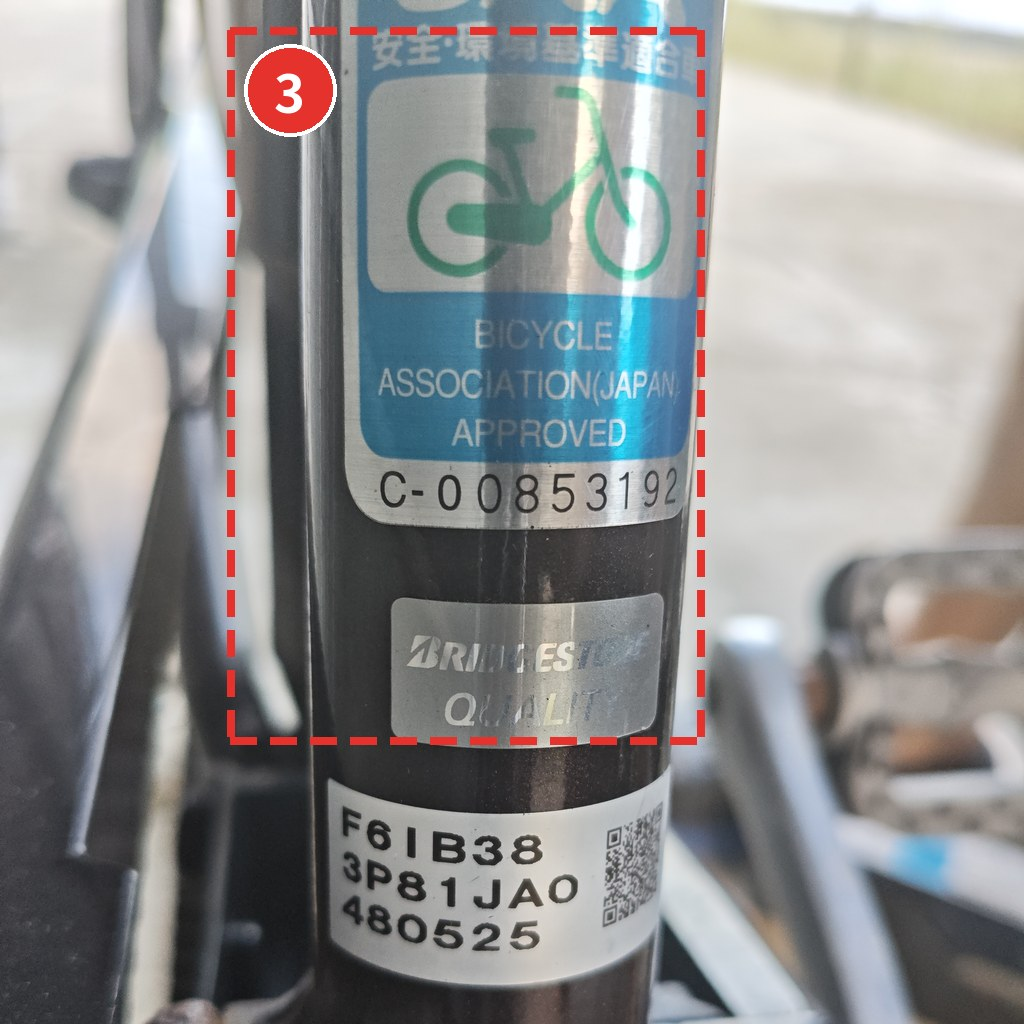
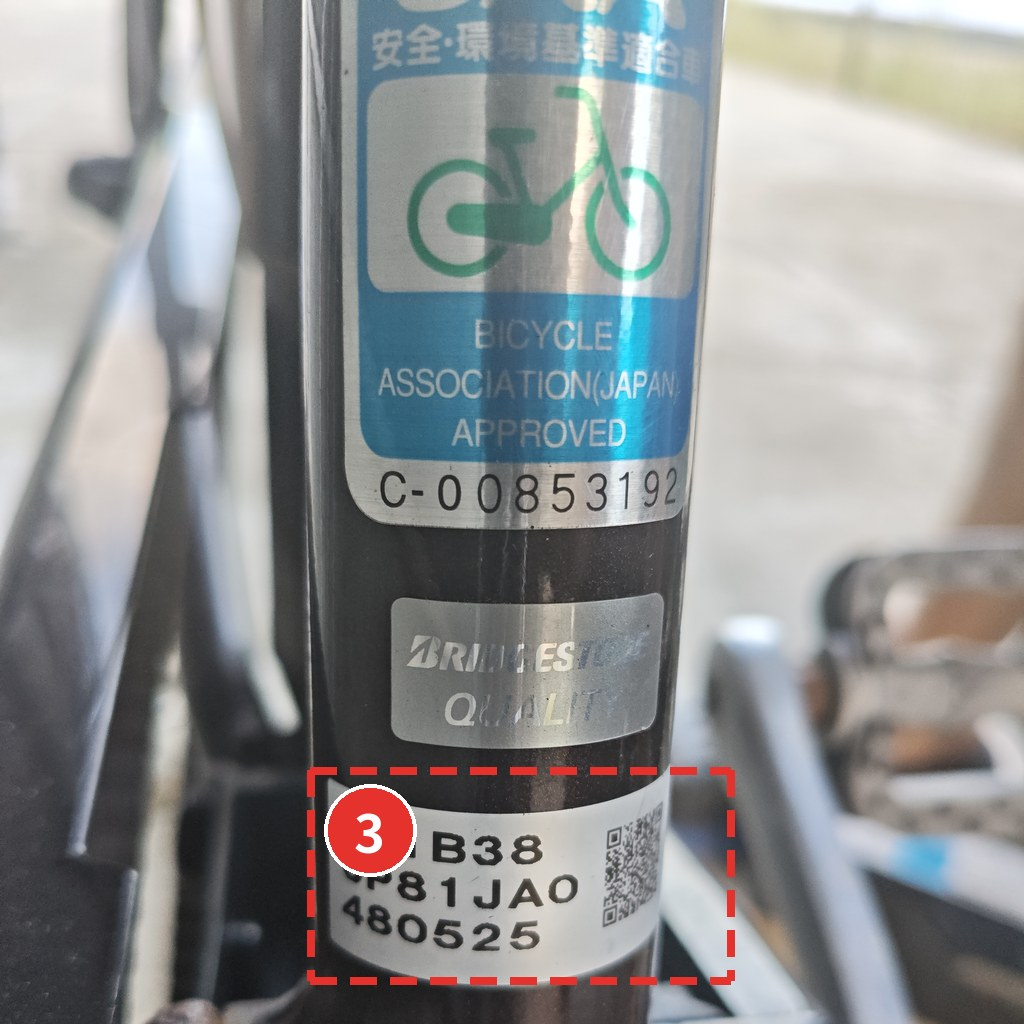
写真査定: 品番シールの見本の枠を「いちばん下の型番ラベル」に合わせる（上は安全マーク、真ん中はメーカーロゴ。2026-09-22 オーナー指摘）

Changed region(s): [[0.2188, 0.0, 0.7188, 0.9688]]

diff --git a/docs/mihon/make-mihon.py b/docs/mihon/make-mihon.py
@@ -42,7 +42,7 @@ FRAMES = {
     '3348': (150, 250, 760, 1000),   # 鍵を挿した状態
     'L340': (60, 30, 960, 950),      # 前輪・左（Gemini、2026-09-22 オーナー生成）
     'L345': (40, 60, 960, 960),      # 後輪・左（Gemini）
-    'R01': (230, 30, 700, 740),      # 車体の品番シール（実写真）
+    'R01': (310, 770, 730, 980),     # 車体の品番シール（実写真）。枠はいちばん下の型番ラベル（上は安全マーク、真ん中はメーカーロゴ。2026-09-22 オーナー指摘）
     'R02': (140, 150, 740, 810),     # 手元スイッチ（電源オン、実写真）
     'R03': (140, 340, 930, 680),     # バッテリーの型番・ロット番号（実写真）
 }
@@ -75,14 +75,14 @@ PENDING = '実写真を準備中'
 
 # 番号 → (元画像, 短い名称, 補足, 左右反転)。元画像が None は仮パネル
 NORMAL = {
-    1: ('3337', '右から全体', '', False), 2: ('3338', '左から全体', '', False), 3: ('R01', '品番シール', '', False),
+    1: ('3337', '右から全体', '', False), 2: ('3338', '左から全体', '', False), 3: ('R01', '品番シール（いちばん下の型番）', '', False),
     4: ('3344', 'ハンドルまわり', '', False), 5: ('3339', 'チェーン・ペダル', '', False),
     6: ('3340', '前輪・右', '', False), 7: ('L340', '前輪・左', SIDE_NOTE, False),
     8: ('3345', '後輪・右', '', False), 9: ('L345', '後輪・左', SIDE_NOTE, False),
     10: ('3341', '前カゴ', '', False), 11: ('3342', '荷台', '', False),
 }
 EBIKE = {
-    1: ('3343', '右から全体', '', False), 2: ('3338', '左から全体', '', False), 3: ('R01', '品番シール', '', False),
+    1: ('3343', '右から全体', '', False), 2: ('3338', '左から全体', '', False), 3: ('R01', '品番シール（いちばん下の型番）', '', False),
     4: ('3344', 'ハンドルまわり', '', False), 5: ('R02', '手元スイッチ（電源オン）', '', False), 6: ('3339', 'チェーン・ペダル', '', False),
     7: ('3340', '前輪・右', '', False), 8: ('L340', '前輪・左', SIDE_NOTE, False),
     9: ('3345', '後輪・右', '', False), 10: ('L345', '後輪・左', SIDE_NOTE, False),
